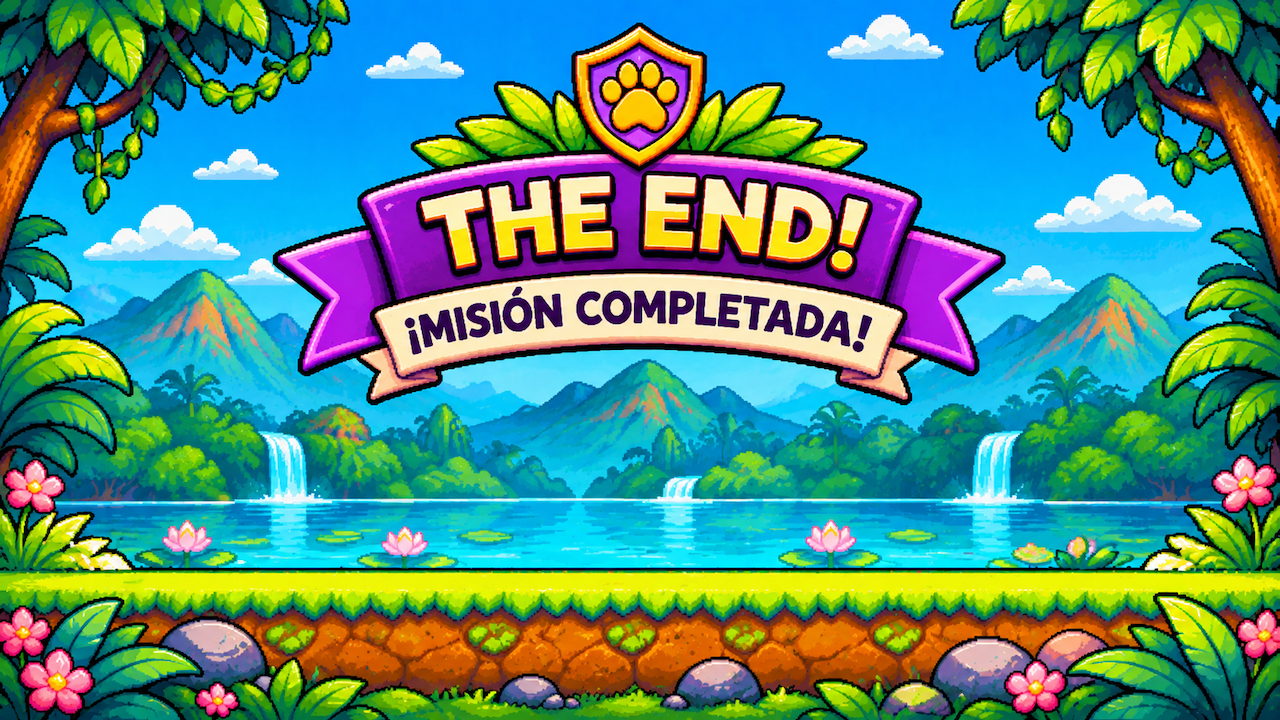
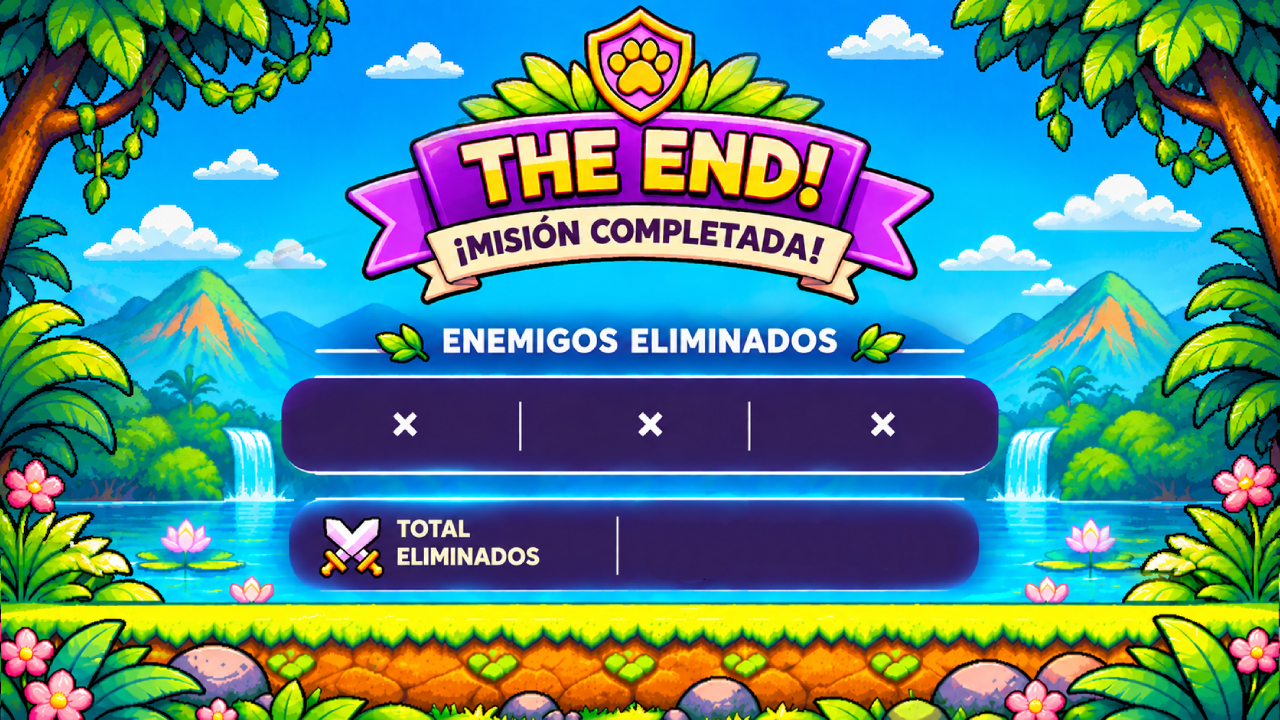
feat: add enemy defeat statistics to final screen

diff --git a/js/models/game.js b/js/models/game.js
@@ -635,10 +635,43 @@ class Game {
    */
   drawGameCompleted() {
     if (this.theEndImg.isReady) {
-      this.ctx.drawImage(
-        this.theEndImg, 0, 0, CANVAS_W, CANVAS_H
-      )
+      this.ctx.drawImage(this.theEndImg, 0, 0, CANVAS_W, CANVAS_H)
     }
+  }
+
+  /**
+   * Renders the final enemy defeat statistics.
+   * Displays each enemy icon, its defeat count, and the total.
+   */
+  drawFinalEnemyStats() {
+    const stats = this.defeatedEnemies
+
+    for (let level = 1; level <= MAX_LEVEL; level++) {
+      const icon = this.enemyHudIcons[level]
+      const count = stats.byLevel[level]
+
+      const x = 310 + (level - 1) * 235
+
+      if (icon && icon.isReady) {
+        this.ctx.drawImage(icon, x, 400, 80, 56)
+      }
+
+      this.ctx.lineWidth = 1
+      this.ctx.strokeStyle = "black"
+      this.ctx.font = "60px impact"
+      this.ctx.fillStyle = "white"
+      this.ctx.textAlign = "right"
+      this.ctx.fillText(`${count}`, x + 180, 450)
+      this.ctx.strokeText(`${count}`, x + 180, 450)
+    }
+
+    this.ctx.lineWidth = 1
+    this.ctx.strokeStyle = "black"
+    this.ctx.font = "60px impact"
+    this.ctx.fillStyle = "white"
+    this.ctx.textAlign = "right"
+    this.ctx.fillText(`${stats.total}`, 594, 568)
+    this.ctx.strokeText(`${stats.total}`, 594, 568)
   }
 
   /**
@@ -650,6 +683,7 @@ class Game {
     this.audioManager.pause('music')
     this.audioManager.play('victory')
     this.drawGameCompleted()
+    this.drawFinalEnemyStats()
   }
   // -----------------------
 

diff --git a/readme.md b/readme.md
@@ -17,6 +17,7 @@ El proyecto combina desarrollo frontend, programación orientada a objetos, anim
 - Sistema de vidas persistentes entre niveles.
 - Registro de enemigos derrotados con estadísticas acumuladas y desglose por nivel.
 - HUD actualizado con miniaturas de enemigos y contador de derrotas del nivel activo.
+- Estadísticas finales de enemigos derrotados por tipo y total acumulado en THE END.
 - Coleccionables y progresión por objetivos.
 - Animaciones de personajes y enemigos mediante spritesheets.
 - Escenarios multicapa con efecto parallax.
@@ -74,6 +75,7 @@ Tras la pantalla de bienvenida, elige **Player 1** o **Player 2** para comenzar 
 - Recoge **10 huellas doradas** para completar cada nivel.
 - Esquiva a los enemigos o derrótalos saltando sobre ellos.
 - Consulta en el HUD cuántos enemigos del nivel actual has derrotado.
+- Al completar los tres niveles, consulta en THE END las derrotas de cada tipo de enemigo y el total acumulado.
 - Dispones de **3 corazones** para completar toda la aventura.
 - Cada golpe recibido resta un corazón y proporciona unos segundos de invulnerabilidad.
 - Los corazones restantes se conservan al avanzar al siguiente nivel.
@@ -89,7 +91,7 @@ Tras la pantalla de bienvenida, elige **Player 1** o **Player 2** para comenzar 
 
 Cada nivel presenta un escenario diferente y enemigos con velocidades progresivamente mayores. La miniatura del HUD y el contador de derrotas se actualizan según el enemigo de cada nivel.
 
-Completa los tres niveles para llegar al final de la aventura.
+Completa los tres niveles para llegar a THE END, donde se muestra el resumen de enemigos derrotados durante la partida.
 
 ## Arquitectura y organización del código
 
@@ -182,9 +184,15 @@ La clase `Game` registra cada enemigo derrotado mediante un salto, incrementando
 
 Las estadísticas se almacenan en `defeatedEnemies`, con un valor `total` y un desglose `byLevel`. Se inicializan al crear la partida y se conservan al cambiar de nivel, ya que `setupLevel()` no las reinicia.
 
-El HUD muestra **solo las derrotas del nivel actual**. La miniatura correspondiente se obtiene desde la propiedad `hudIcon` de `ENEMY_CONFIG`, y las imágenes se cargan mediante `loadImage()`. El total global y el desglose por nivel permanecen disponibles para futuras funcionalidades, pero no se muestran simultáneamente en el HUD.
+El HUD muestra **solo las derrotas del nivel actual**. La miniatura correspondiente se obtiene desde la propiedad `hudIcon` de `ENEMY_CONFIG`, y las imágenes se cargan mediante `loadImage()`. El total global y el desglose por nivel se reutilizan en la pantalla THE END, que presenta las derrotas de los tres tipos de enemigos y el total acumulado. En el HUD únicamente se muestra el contador del nivel activo.
 
 No se utiliza `localStorage`: estas estadísticas pertenecen a la partida en curso y no se conservan al recargar la página.
+
+### Estadísticas en la pantalla final
+
+Cuando se completa el tercer nivel, `gameCompleted()` muestra la pantalla THE END. El método `drawFinalEnemyStats()` dibuja sobre ella las miniaturas de los tres enemigos, sus respectivos valores de `defeatedEnemies.byLevel` y el total de `defeatedEnemies.total`.
+
+Las miniaturas se reutilizan desde `enemyHudIcons`, sin duplicar la carga de imágenes ni alterar la contabilización de derrotas. Las estadísticas se representan con los resultados de la partida que acaba de terminar. El registro de tiempos no forma parte de esta versión.
 
 ### Gestión centralizada de recursos
 
@@ -229,6 +237,7 @@ La interfaz mantiene la misma identidad visual que los escenarios y personajes, 
 - HUD actualizado con indicador de vidas, huellas recogidas, nivel actual y enemigos derrotados del nivel activo.
 - Miniaturas específicas de araña, monstruo y pájaro, integradas dinámicamente en el HUD.
 - Pantallas de nivel completado, Game Over y final de partida.
+- Pantalla THE END actualizada con miniaturas, desglose de enemigos eliminados y total acumulado.
 - Botones y controles gráficos.
 
 El diseño de estos elementos busca mantener una experiencia visual consistente a lo largo de toda la aventura.
@@ -279,7 +288,7 @@ Las propuestas generadas se han evaluado y ajustado en función de los requisito
 
 ### Versión
 
-**Versión actual:** `3.2.0`
+**Versión actual:** `3.3.0`
 
 El historial de evolución y cambios del proyecto se recoge en [CHANGELOG.md](CHANGELOG.md).
 

diff --git a/CHANGELOG.md b/CHANGELOG.md
@@ -6,6 +6,23 @@ Este documento recoge las principales funcionalidades, mejoras y refactorizacion
 
 ## [Unreleased]
 
+## [3.3.0] — Estadísticas de enemigos en THE END
+
+### Added
+- Visualización en THE END del número de enemigos derrotados de cada tipo: arañas, monstruos y pájaros.
+- Incorporación del total de enemigos eliminados durante la partida en la pantalla final.
+- Implementación de `drawFinalEnemyStats()` para representar los resultados al completar los tres niveles.
+
+### Changed
+- Actualización del recurso gráfico de THE END para integrar las estadísticas de enemigos derrotados.
+- Reutilización de las miniaturas previamente cargadas en `enemyHudIcons` y de los contadores existentes en `defeatedEnemies`, sin duplicar datos ni modificar las colisiones.
+- Actualización del README para documentar las estadísticas finales y la versión `3.3.0`.
+
+### Validation
+- Comprobación de la visualización de los tres contadores individuales y del total acumulado al completar la aventura.
+- Verificación de la correspondencia entre las derrotas registradas durante la partida y los resultados de THE END.
+- Pruebas de regresión completadas correctamente con ambos personajes y los tres niveles.
+
 ## [3.2.0] — Contador de enemigos derrotados y nuevo HUD
 
 ### Added
